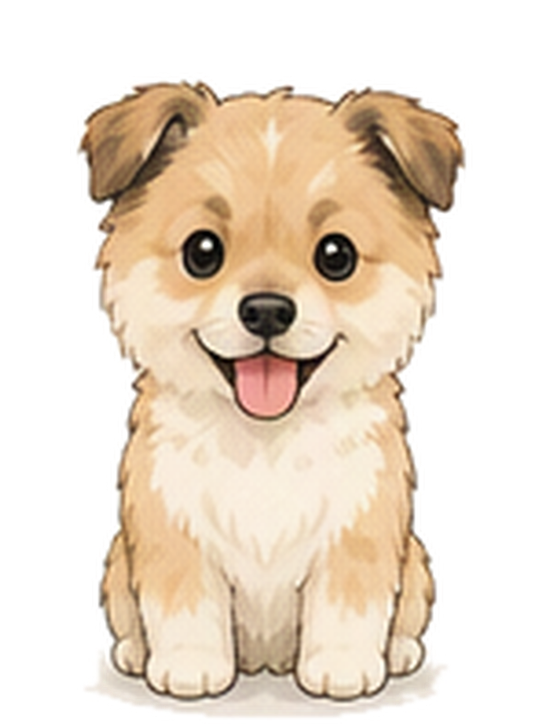
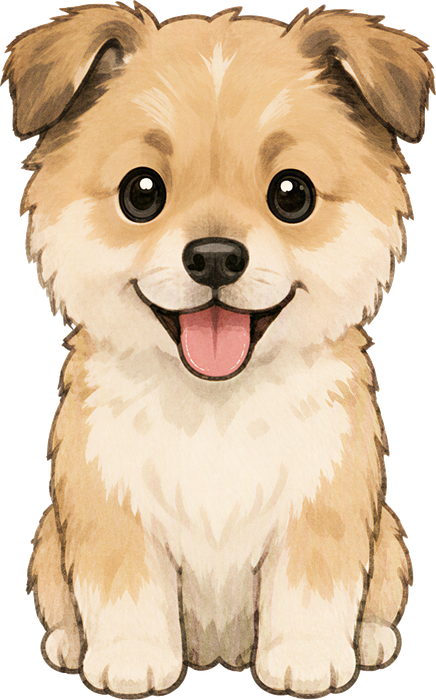
完善小窝视觉并统一小多利素材

diff --git a/src/styles.css b/src/styles.css
@@ -105,27 +105,43 @@ button:active { transition: transform .1s ease; }
 
 .scroll-area { flex: 1; overflow: auto; padding: 14px 14px 176px; -webkit-overflow-scrolling: touch; scrollbar-width: none; }
 .scroll-area::-webkit-scrollbar, .memory-sheet::-webkit-scrollbar { display: none; }
-.pet-card { border-radius: 27px; background: linear-gradient(140deg, #ffe8bf, #fff4df 65%, #fff); overflow: hidden; box-shadow: 0 18px 38px rgba(137, 87, 50, .14); border: 1px solid rgba(208, 144, 80, .16); }
-.pet-card__visual { min-height: 210px; display: grid; place-items: center; position: relative; background: radial-gradient(circle at 50% 42%, rgba(255,255,255,.95), rgba(255,255,255,0) 58%); }
-.pet-level { position: absolute; top: 15px; left: 16px; z-index: 2; padding: 6px 10px; border-radius: 999px; background: rgba(255,255,255,.78); color: #a06440; font-weight: 900; font-size: 12px; }
-.pet-card__content { padding: 0 18px 18px; }
-.pet-card__heading { display: flex; align-items: flex-start; justify-content: space-between; }
+.pet-card { display: flex; flex-direction: column; gap: 10px; background: transparent; }
+.pet-card__scene { height: clamp(300px, 39dvh, 348px); display: grid; place-items: end center; position: relative; overflow: hidden; border: 1px solid rgba(208, 144, 80, .2); border-radius: 27px; background: linear-gradient(rgba(255, 229, 190, .12), rgba(175, 115, 70, .08)), url("/nest/room-background.webp") center 68% / cover no-repeat; box-shadow: 0 14px 28px rgba(137, 87, 50, .12); }
+.pet-card__scene::after { content: ""; position: absolute; z-index: 1; left: 50%; bottom: 22px; width: 118px; height: 20px; border-radius: 50%; translate: -50% 0; background: rgba(86, 53, 29, .28); filter: blur(7px); }
+.pet-level { position: absolute; top: 13px; left: 14px; z-index: 3; padding: 7px 12px; border: 2px solid rgba(164, 91, 54, .68); border-radius: 999px; background: rgba(255, 249, 237, .9); color: #854a34; font-weight: 900; font-size: 13px; }
+.pet-name-badge { position: absolute; z-index: 3; left: 14px; bottom: 14px; padding: 8px 16px; border-radius: 999px; background: rgba(255, 251, 245, .94); color: #6d5144; font-size: 14px; box-shadow: 0 5px 14px rgba(94, 60, 40, .12); }
+.nest-shortcuts { position: absolute; z-index: 4; top: 59px; right: 12px; display: flex; flex-direction: column; align-items: center; gap: 7px; }
+.nest-shortcut { position: relative; display: flex; flex-direction: column; align-items: center; gap: 0; width: 62px; padding: 0; border: 0; background: transparent; color: #8a4f37; font-size: 10px; font-weight: 900; }
+.nest-shortcut__icon { display: block; width: 56px; height: 58px; overflow: hidden; }
+.nest-shortcut__icon img { display: block; width: 56px; height: auto; object-fit: contain; }
+.nest-shortcut > span:last-child { position: relative; z-index: 2; min-width: 38px; margin-top: -9px; padding: 3px 8px 2px; border: 1px solid rgba(133, 74, 52, .35); border-radius: 999px; background: rgba(255, 247, 232, .98); line-height: 1.15; text-align: center; white-space: nowrap; }
+.pet-card__experience { padding: 10px 15px; border: 1px solid #e8bd91; border-radius: 22px; background: #fff7e9; }
+.pet-card__mood { display: none; }
 .eyebrow { color: #b5784f; font-weight: 900; text-transform: uppercase; letter-spacing: .1em; font-size: 10px; }
 .pet-card h1 { margin: 3px 0 2px; font-size: 27px; }
 .pet-card__heading p { margin: 0; color: #9b7865; font-size: 13px; }
-.memory-button { border: 0; background: #fff; color: #8c6048; padding: 9px 13px; border-radius: 13px; font-weight: 800; box-shadow: 0 6px 16px rgba(125, 79, 48, .09); }
-.experience { margin: 15px 0 13px; }
+.memory-button { position: absolute; z-index: 3; top: 13px; right: 14px; border: 1px solid rgba(133, 74, 52, .32); background: rgba(255, 249, 237, .92); color: #854a34; padding: 7px 12px; border-radius: 999px; font-weight: 900; box-shadow: 0 5px 14px rgba(125, 79, 48, .1); }
+.experience { margin: 0 0 7px; }
 .experience > div:first-child, .status-line__meta { display: flex; justify-content: space-between; font-size: 11px; color: #987868; }
 .experience strong, .status-line strong { color: #695048; }
 .experience__track, .status-line__track { height: 7px; border-radius: 99px; overflow: hidden; background: rgba(126, 85, 55, .09); margin-top: 5px; }
 .experience__track span { display: block; height: 100%; border-radius: inherit; background: linear-gradient(90deg, #e89264, #efbe68); }
-.status-grid { display: grid; grid-template-columns: 1fr 1fr; gap: 11px 14px; }
+.status-grid { display: grid; grid-template-columns: 1fr 1fr; gap: 6px 14px; }
 .status-line__track span { display: block; height: 100%; border-radius: inherit; }
 
-.pet-actions { display: grid; grid-template-columns: repeat(4, 1fr); gap: 8px; margin: 13px 0 17px; }
-.pet-actions button { border: 1px solid rgba(130, 91, 68, .09); background: #fff; border-radius: 17px; padding: 10px 5px 9px; color: #72594d; font-size: 12px; font-weight: 800; box-shadow: 0 8px 18px rgba(80, 55, 41, .06); }
-.pet-actions button:active { transform: scale(.96); }
-.pet-actions span { display: block; font-size: 22px; margin-bottom: 3px; }
+.pet-actions-panel { padding: 10px 12px; border: 1px solid #e8bd91; border-radius: 22px; background: #fff7e9; }
+.pet-actions-panel h3 { margin: 0 0 6px; color: #a98d7e; font-size: 11px; font-weight: 600; }
+.pet-actions { display: grid; grid-template-columns: repeat(4, 1fr); gap: 9px; }
+.pet-action-button { min-width: 0; border: 0; background: transparent; padding: 0; border-radius: 17px; box-shadow: none; }
+.pet-action-button:active { transform: scale(.96); }
+.pet-action-button img { display: block; width: calc(100% - 10px); height: auto; margin: 0 auto; object-fit: contain; }
+
+@media (min-height: 800px) {
+  .pet-card__scene { height: clamp(340px, 42dvh, 360px); }
+  .pet-card__experience { min-height: 0; padding-block: 10px; }
+  .status-grid { gap-block: 9px; }
+  .pet-actions-panel { min-height: 0; padding-block: 10px; }
+}
 .day-divider { display: flex; align-items: center; gap: 10px; margin: 7px 0 16px; color: #b0a09a; font-size: 11px; }
 .day-divider::before, .day-divider::after { content: ""; flex: 1; height: 1px; background: #eee5df; }
 
@@ -161,9 +177,9 @@ button:active { transition: transform .1s ease; }
 .visually-hidden { position: absolute; width: 1px; height: 1px; opacity: 0; pointer-events: none; }
 
 .pet-avatar { display: grid; place-items: center; }
-.pet-avatar--large { width: 186px; height: 248px; }
+.pet-avatar--large { z-index: 2; width: 158px; height: 254px; margin-bottom: 18px; }
 .pet-avatar--small { width: 35px; height: 35px; transform: translateY(3px); }
-.pet-avatar img { width: 100%; height: 100%; object-fit: contain; animation: breathe 3.2s ease-in-out infinite; transform-origin: 50% 90%; -webkit-user-drag: none; pointer-events: none; }
+.pet-avatar img { width: 100%; height: 100%; object-fit: contain; animation: breathe 3.2s ease-in-out infinite; transform-origin: 50% 90%; filter: drop-shadow(0 6px 4px rgba(80, 51, 31, .16)); -webkit-user-drag: none; pointer-events: none; }
 .pet-avatar--sleepy img { animation-duration: 4.5s; }
 .pet-avatar--hungry img { animation-duration: 2.2s; }
 .pet-avatar--clingy img { transform: rotate(-2deg); }
@@ -321,13 +337,14 @@ button:active { transition: transform .1s ease; }
 .floating-pet__dot--on { background: #6fbf8f; }
 
 /* ========== 小窝 ========== */
-.nest-tab { display: flex; flex-direction: column; gap: 14px; padding: 0 16px 24px; }
-.nest-tab__header { position: sticky; top: 0; z-index: 5; margin-inline: -16px; padding: calc(14px + env(safe-area-inset-top)) 18px 8px; background: #fffaf6; }
-.nest-tab__header h2 { margin: 0; font-size: 24px; letter-spacing: -.02em; }
-.nest-tab__header p { margin: 3px 0 0; color: #a89489; font-size: 12px; }
+.nest-tab { display: flex; flex-direction: column; gap: 8px; padding: 0 14px 2px; }
+.nest-tab__header { position: sticky; top: 0; z-index: 5; margin-inline: -14px; padding: calc(7px + env(safe-area-inset-top)) 16px 4px; background: #fffaf6; }
+.nest-tab__header h2 { margin: 0; font-size: 22px; letter-spacing: -.02em; }
+.nest-tab__header p { margin: 2px 0 0; color: #a89489; font-size: 11px; }
 .nest-tab__empty { padding: 30px 14px; text-align: center; color: #aa9790; font-size: 13px; line-height: 1.7; }
 .lucky-hint { padding: 10px 14px; border-radius: 15px; background: linear-gradient(135deg, #fff7df, #ffefd0); color: #8b6236; font-size: 12px; border: 1px solid #f5e3b8; }
 .contribution-board, .codeword-card, .game-wall { border-radius: 21px; background: #fff; border: 1px solid #f0e4dc; padding: 15px 16px; box-shadow: 0 10px 26px rgba(80, 55, 41, .05); }
+.contribution-board { background: #fff7e9; border-color: #e8bd91; }
 .contribution-board h3, .codeword-card h3, .game-wall h3 { margin: 0 0 11px; font-size: 15px; color: #4a382f; }
 .contribution-board ul { list-style: none; margin: 0; padding: 0; display: flex; flex-direction: column; gap: 8px; }
 .contribution-board li { display: flex; align-items: center; gap: 9px; font-size: 13px; }

diff --git a/src/startupAssets.test.ts b/src/startupAssets.test.ts
@@ -3,17 +3,17 @@ import { resolve } from 'node:path'
 import { describe, expect, it } from 'vitest'
 
 describe('startup artwork', () => {
-  it('uses a dedicated lightweight image before the app opens', () => {
+  it('uses the unified pet image before the app opens', () => {
     const root = resolve(import.meta.dirname, '..')
     const html = readFileSync(resolve(root, 'index.html'), 'utf8')
     const main = readFileSync(resolve(root, 'src/main.tsx'), 'utf8')
     const login = readFileSync(resolve(root, 'src/components/LoginScreen.tsx'), 'utf8')
-    const asset = resolve(root, 'public/pet/xiaoduoli-startup.png')
+    const asset = resolve(root, 'public/pet/xiaoduoli.png')
 
-    expect(html).toContain('/pet/xiaoduoli-startup.png')
-    expect(main).toContain('/pet/xiaoduoli-startup.png')
-    expect(login).toContain('/pet/xiaoduoli-startup.png')
-    expect(statSync(asset).size).toBeLessThan(200_000)
+    expect(html).toContain('/pet/xiaoduoli.png')
+    expect(main).toContain('/pet/xiaoduoli.png')
+    expect(login).toContain('/pet/xiaoduoli.png')
+    expect(statSync(asset).size).toBeLessThan(1024 * 1024)
   })
 
   it('bounds installed-app navigation and session startup waits', () => {
@@ -33,6 +33,7 @@ describe('startup artwork', () => {
     const main = readFileSync(resolve(root, 'src/main.tsx'), 'utf8')
     const requiredAssets = [
       '/pet/xiaoduoli.png',
+      '/nest/room-background.webp',
       '/navigation/tab-bar-background.png',
       '/navigation/nest.png',
       '/navigation/journal.png',
@@ -56,6 +57,7 @@ describe('startup artwork', () => {
     const serviceWorker = readFileSync(resolve(root, 'public/sw.js'), 'utf8')
     const requiredAssets = [
       '/pet/xiaoduoli.png',
+      '/nest/room-background.webp',
       '/navigation/tab-bar-background.png',
       '/navigation/nest.png',
       '/navigation/journal.png',
@@ -73,7 +75,7 @@ describe('startup artwork', () => {
       expect(serviceWorker).toContain(`'${asset}'`)
     }
 
-    expect(serviceWorker).toContain("const CACHE_NAME = 'xiaoduoli-shell-v9'")
+    expect(serviceWorker).toContain("const CACHE_NAME = 'xiaoduoli-shell-v10'")
     expect(serviceWorker).toContain("'/navigation/tab-bar-background.png'")
   })
 })

diff --git a/src/components/PetStatusCard.tsx b/src/components/PetStatusCard.tsx
@@ -32,21 +32,30 @@ export function PetStatusCard({ pet, onOpenMemories }: PetStatusCardProps) {
 
   return (
     <section className="pet-card">
-      <div className="pet-card__visual">
+      <div className="pet-card__scene">
         <div className="pet-level">Lv.{pet.level}</div>
         <PetAvatar mood={pet.moodLabel} />
-      </div>
-      <div className="pet-card__content">
-        <div className="pet-card__heading">
-          <div>
-            <span className="eyebrow">共享 AI 宠物</span>
-            <h1>{pet.name}</h1>
-            <p>{moodText[pet.moodLabel]}</p>
-          </div>
-          <button className="memory-button" onClick={onOpenMemories}>
-            记忆
+        <strong className="pet-name-badge">{pet.name}</strong>
+        <button className="memory-button" onClick={onOpenMemories}>
+          记忆
+        </button>
+        <div className="nest-shortcuts" aria-label="小窝入口">
+          <button className="nest-shortcut" aria-label="衣柜">
+            <span className="nest-shortcut__icon"><img src="/nest/wardrobe.png" alt="" /></span>
+            <span>衣柜</span>
+          </button>
+          <button className="nest-shortcut" aria-label="照片墙">
+            <span className="nest-shortcut__icon"><img src="/nest/photo-wall.png" alt="" /></span>
+            <span>照片墙</span>
+          </button>
+          <button className="nest-shortcut" aria-label="任务">
+            <span className="nest-shortcut__icon"><img src="/nest/tasks.png" alt="" /></span>
+            <span>任务</span>
           </button>
         </div>
+      </div>
+      <div className="pet-card__experience">
+        <p className="pet-card__mood">{moodText[pet.moodLabel]}</p>
         <div className="experience">
           <div>
             <span>成长经验</span>

diff --git a/src/main.tsx b/src/main.tsx
@@ -16,6 +16,7 @@ const SESSION_STARTUP_TIMEOUT_MS = 8_000
 
 if (window.location.pathname !== '/image' && (runtimeConfig.useMockApi || getAccessToken())) {
   preloadImage('/pet/xiaoduoli.png')
+  preloadImage('/nest/room-background.webp')
   preloadImage('/navigation/tab-bar-background.png')
   preloadImage('/navigation/nest.png')
   preloadImage('/navigation/journal.png')
@@ -66,8 +67,8 @@ function App() {
   }, [])
 
   if (runtimeConfig.useMockApi) return <AppShell onLogout={() => undefined} />
-  if (loading) return <main className="loading-screen"><div className="loading-orb"><img src="/pet/xiaoduoli-startup.png" alt="小多利" width="256" height="384" /></div><p>正在打开小多利的家…</p></main>
-  if (error && getAccessToken() && !session) return <main className="loading-screen"><div className="loading-orb"><img src="/pet/xiaoduoli-startup.png" alt="小多利" width="256" height="384" /></div><p>{error}</p><button onClick={() => void refreshSession()}>重新连接</button></main>
+  if (loading) return <main className="loading-screen"><div className="loading-orb"><img src="/pet/xiaoduoli.png" alt="小多利" width="561" height="900" /></div><p>正在打开小多利的家…</p></main>
+  if (error && getAccessToken() && !session) return <main className="loading-screen"><div className="loading-orb"><img src="/pet/xiaoduoli.png" alt="小多利" width="561" height="900" /></div><p>{error}</p><button onClick={() => void refreshSession()}>重新连接</button></main>
   if (!getAccessToken()) return <LoginScreen onLoggedIn={() => void refreshSession()} />
   if (error && !session) return <LoginScreen onLoggedIn={() => void refreshSession()} />
   if (!session) return <LoginScreen onLoggedIn={() => void refreshSession()} />

diff --git a/src/components/PetStatusLayout.test.tsx b/src/components/PetStatusLayout.test.tsx
@@ -1,0 +1,43 @@
+import { renderToStaticMarkup } from 'react-dom/server'
+import { describe, expect, it, vi } from 'vitest'
+import type { PetState } from '../domain/types'
+import { PetActionBar } from './PetActionBar'
+import { PetStatusCard } from './PetStatusCard'
+
+const pet: PetState = {
+  name: '小多利',
+  level: 2,
+  experience: 38,
+  experienceToNextLevel: 100,
+  hunger: 68,
+  mood: 82,
+  energy: 71,
+  health: 94,
+  intimacy: 76,
+  moodLabel: 'happy'
+}
+
+describe('PetStatusLayout', () => {
+  it('keeps the scene and experience content in the compact nest card', () => {
+    const markup = renderToStaticMarkup(<PetStatusCard pet={pet} onOpenMemories={vi.fn()} />)
+
+    expect(markup).toContain('pet-card__scene')
+    expect(markup).toContain('pet-card__experience')
+    expect(markup).toContain('/nest/wardrobe.png')
+    expect(markup).toContain('/nest/photo-wall.png')
+    expect(markup).toContain('/nest/tasks.png')
+  })
+
+  it('renders care actions inside a compact panel', () => {
+    const markup = renderToStaticMarkup(<PetActionBar onAction={vi.fn()} />)
+
+    expect(markup).toContain('pet-actions-panel')
+    expect(markup).toContain('pet-action-button')
+    expect(markup).toContain('/nest/action-feed.png')
+    expect(markup).toContain('/nest/action-play.png')
+    expect(markup).toContain('/nest/action-clean.png')
+    expect(markup).toContain('/nest/action-sleep.png')
+    expect(markup).toContain('aria-label="喂食"')
+    expect(markup).not.toContain('>喂食</button>')
+  })
+})

diff --git a/src/components/PetActionBar.tsx b/src/components/PetActionBar.tsx
@@ -5,21 +5,28 @@ interface PetActionBarProps {
 }
 
 const actions: Array<{ id: PetAction; icon: string; label: string }> = [
-  { id: 'feed', icon: '🥣', label: '喂食' },
-  { id: 'play', icon: '🎾', label: '玩耍' },
-  { id: 'clean', icon: '🫧', label: '清洁' },
-  { id: 'sleep', icon: '🌙', label: '睡觉' }
+  { id: 'feed', icon: '/nest/action-feed.png', label: '喂食' },
+  { id: 'play', icon: '/nest/action-play.png', label: '玩耍' },
+  { id: 'clean', icon: '/nest/action-clean.png', label: '清洁' },
+  { id: 'sleep', icon: '/nest/action-sleep.png', label: '睡觉' }
 ]
 
 export function PetActionBar({ onAction }: PetActionBarProps) {
   return (
-    <div className="pet-actions" aria-label="照顾小多利">
-      {actions.map((action) => (
-        <button key={action.id} onClick={() => onAction(action.id)}>
-          <span>{action.icon}</span>
-          {action.label}
-        </button>
-      ))}
-    </div>
+    <section className="pet-actions-panel" aria-label="照顾小多利">
+      <h3>照顾小多利</h3>
+      <div className="pet-actions">
+        {actions.map((action) => (
+          <button
+            className="pet-action-button"
+            key={action.id}
+            aria-label={action.label}
+            onClick={() => onAction(action.id)}
+          >
+            <img src={action.icon} alt="" />
+          </button>
+        ))}
+      </div>
+    </section>
   )
 }

diff --git a/index.html b/index.html
@@ -11,7 +11,7 @@
     <link rel="icon" type="image/png" href="/icons/icon-192.png" />
     <link rel="apple-touch-icon" href="/icons/icon-180.png" />
     <link rel="apple-touch-icon" sizes="180x180" href="/icons/icon-180.png" />
-    <link rel="preload" as="image" href="/pet/xiaoduoli-startup.png" fetchpriority="high" />
+    <link rel="preload" as="image" href="/pet/xiaoduoli.png" fetchpriority="high" />
     <title>小多利</title>
     <style>
       .app-splash { position: fixed; inset: 0; z-index: 999; display: grid; place-items: center; background: radial-gradient(circle at 50% 8%, #fff8e9 0, #f7ecdc 48%, #efdfd2 100%); overflow: hidden; transition: opacity .5s ease; }
@@ -42,7 +42,7 @@
     <div class="app-splash" id="app-splash" aria-hidden="true">
       <div>
         <div class="app-splash__stage">
-          <img class="app-splash__pet" src="/pet/xiaoduoli-startup.png" alt="小多利" width="256" height="384" fetchpriority="high" />
+          <img class="app-splash__pet" src="/pet/xiaoduoli.png" alt="小多利" width="561" height="900" fetchpriority="high" />
           <span class="app-splash__paw">🐾</span>
           <span class="app-splash__paw">✨</span>
           <span class="app-splash__paw">🐾</span>

diff --git a/src/components/LoginScreen.tsx b/src/components/LoginScreen.tsx
@@ -46,7 +46,7 @@ export function LoginScreen({ onLoggedIn }: LoginScreenProps) {
   return (
     <main className="onboarding-shell">
       <div className="onboarding-card">
-        <div className="onboarding-pet"><img src="/pet/xiaoduoli-startup.png" alt="小多利" width="256" height="384" /></div>
+        <div className="onboarding-pet"><img src="/pet/xiaoduoli.png" alt="小多利" width="561" height="900" /></div>
         <span className="eyebrow">PET10 · PRIVATE BETA</span>
         <h1>和朋友一起养<br />小多利</h1>
         <p>一个只属于你们两个人的共享 AI 小狗。</p>

diff --git a/public/sw.js b/public/sw.js
@@ -1,9 +1,9 @@
-const CACHE_NAME = 'xiaoduoli-shell-v9'
+const CACHE_NAME = 'xiaoduoli-shell-v10'
 const NAVIGATION_TIMEOUT_MS = 2500
 const APP_SHELL = [
   '/manifest.webmanifest',
-  '/pet/xiaoduoli-startup.png',
   '/pet/xiaoduoli.png',
+  '/nest/room-background.webp',
   '/navigation/tab-bar-background.png',
   '/icons/icon-180.png',
   '/icons/icon-192.png',

diff --git a/vite.config.ts b/vite.config.ts
@@ -10,6 +10,6 @@ export default defineConfig({
   test: {
     environment: 'jsdom',
     globals: true,
-    exclude: ['server/**', 'node_modules/**', 'dist/**']
+    exclude: ['server/**', '**/node_modules/**', 'dist/**', '.worktrees/**']
   }
 })

diff --git a/src/components/NestTab.tsx b/src/components/NestTab.tsx
@@ -83,7 +83,6 @@ export function NestTab({ pairRoom, pet, friendNames, onAction, onOpenMemories }
           </ul>
         </section>
       )}
-
     </section>
   )
 }

diff --git a/docs/features/assets-and-performance.md b/docs/features/assets-and-performance.md
@@ -40,7 +40,7 @@ flowchart LR
 - “我的”页面列表图标位于 `public/me/`，使用 128×128 透明 PNG，随该页面按需加载。
 - 塔罗资源下载完成后以固定 2 路并发调用浏览器图片解码；只有 24 项资源全部可直接绘制时，进度才允许达到 100%。
 - 塔罗 CSS 背景和牌背通过运行时 CSS 变量引用资源清单 URL，避免下载 COS 资源后又从应用服务器重复请求同源图片。
-- 小多利运行时资源位于 `public/pet/`：`xiaoduoli.png` 和 `xiaoduoli-startup.png` 保留透明背景，`xiaoduoli-large.jpg` 与 `xiaoduoli-small.jpg` 使用暖白背景铺底；四张图均取自同一张正面原色角色设定图，保持头像和启动页形象一致。
+- 小多利运行时资源统一为 `public/pet/xiaoduoli.png`，登录、加载、小窝、聊天头像和悬浮宠物均使用同一张透明 PNG，避免不同页面混用旧形象。小窝房间背景位于 `public/nest/room-background.webp`，进入主应用后与宠物图一起非阻塞预加载。
 
 ## 常见问题
 
